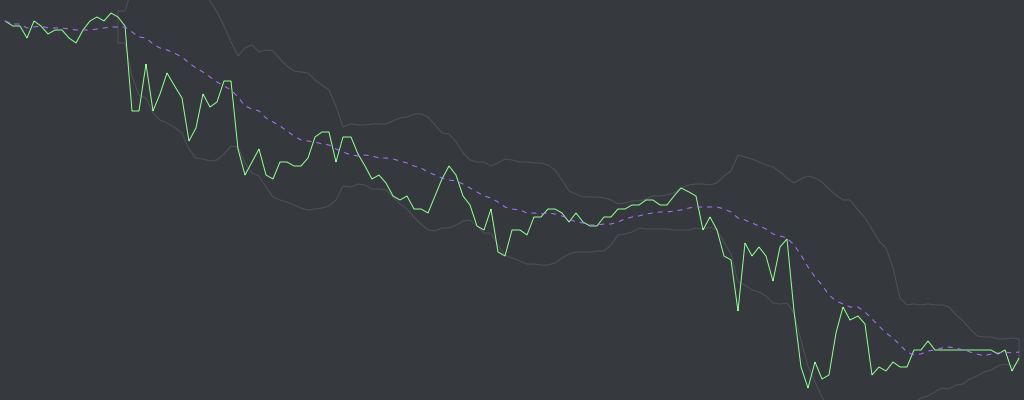
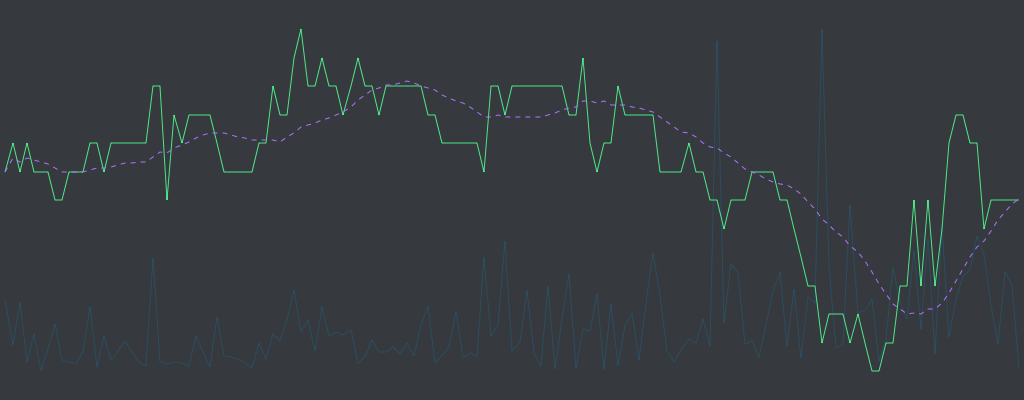
temporarily remove bollinger bands and add volume

diff --git a/main.go b/main.go
@@ -110,28 +110,50 @@ func messageCreate(s *discordgo.Session, m *discordgo.MessageCreate) {
 
 			////
 			var xv []time.Time
-			var yv []float64
-			var ymin, ymax float64 = 1000000, 0
+			var yv, vol []float64
+			var ymin, ymax, volmin, volmax float64 = 1000000, 0, 1000000000, 0
 
 			for _, m := range histoData.Data {
 				xv = append(xv, time.Unix(m.Time, 0))
 				yv = append(yv, m.Close)
+				vol = append(vol, m.Volumeto)
+
 				if m.Close < ymin {
 					ymin = m.Close
 				}
 				if m.Close > ymax {
 					ymax = m.Close
 				}
+				if m.Volumeto < volmin {
+					volmin = m.Volumeto
+				}
+				if m.Volumeto > volmax {
+					volmax = m.Volumeto
+				}
+			}
+
+			for i, v := range vol {
+				vol[i] = ((v-volmin)/(volmax-volmin))*(ymax-ymin) + ymin
 			}
 
 			priceSeries := chart.TimeSeries{
 				Name: "SPY",
 				Style: chart.Style{
 					Show:        true,
-					StrokeColor: drawing.ColorFromHex("92FF92"),
+					StrokeColor: drawing.ColorFromHex("4DE786"),
 				},
 				XValues: xv,
 				YValues: yv,
+			}
+
+			volumeSeries := chart.TimeSeries{
+				Name: "SPY - VOL",
+				Style: chart.Style{
+					Show:        true,
+					StrokeColor: drawing.ColorFromHex("00A1E7").WithAlpha(50),
+				},
+				XValues: xv,
+				YValues: vol,
 			}
 
 			smaSeries := chart.SMASeries{
@@ -144,14 +166,15 @@ func messageCreate(s *discordgo.Session, m *discordgo.MessageCreate) {
 				InnerSeries: priceSeries,
 			}
 
-			bbSeries := &chart.BollingerBandsSeries{
-				Name: "SPY - Bol. Bands",
-				Style: chart.Style{
-					Show:        true,
-					StrokeColor: drawing.ColorFromHex("bcbcbc").WithAlpha(50),
-				},
-				InnerSeries: priceSeries,
-			}
+			// bbSeries := &chart.BollingerBandsSeries{
+			// 	Name: "SPY - Bol. Bands",
+			// 	Style: chart.Style{
+			// 		Show:        true,
+			// 		StrokeColor: drawing.ColorFromHex("ffffff").WithAlpha(30),
+			// 		FillColor:   drawing.ColorFromHex("ffffff").WithAlpha(1),
+			// 	},
+			// 	InnerSeries: priceSeries,
+			// }
 
 			graph := chart.Chart{
 				Canvas: chart.Style{
@@ -175,7 +198,8 @@ func messageCreate(s *discordgo.Session, m *discordgo.MessageCreate) {
 					},
 				},
 				Series: []chart.Series{
-					bbSeries,
+					volumeSeries,
+					// bbSeries,
 					priceSeries,
 					smaSeries,
 				},
